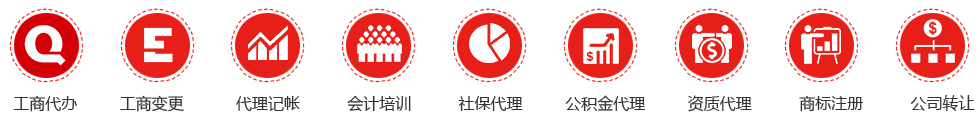
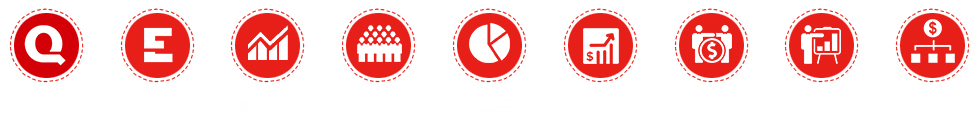
site: ...

diff --git a/web/css/application.css b/web/css/application.css
@@ -323,6 +323,25 @@ ul.pagination .hidden a {
 }
 .widget-service-items .bd {
     padding: 10px 9px;
+    background: url(../images/service-items.jpg) no-repeat center center;
+    height: 100px;
+}
+.widget-service-items .bd li {
+    display: block;
+    width: 74px;
+    height: 120px;
+    margin: 0 24px 0 12px;
+    float: left;
+}
+.widget-service-items .bd li.item-1 { margin-left: 10px; }
+.widget-service-items .bd li.item-4 { margin-left: 14px; }
+.widget-service-items .bd li.item-7 { margin-left: 14px; }
+.widget-service-items .bd li.item-9 { margin: 0 10px 0 14px; }
+.widget-service-items .bd li a {
+    display: block;
+    line-height: 186px;
+    text-align: center;
+    font-weight: bold;
 }
 /*******************************************************************************
  * 首页关于我们、新闻资讯
